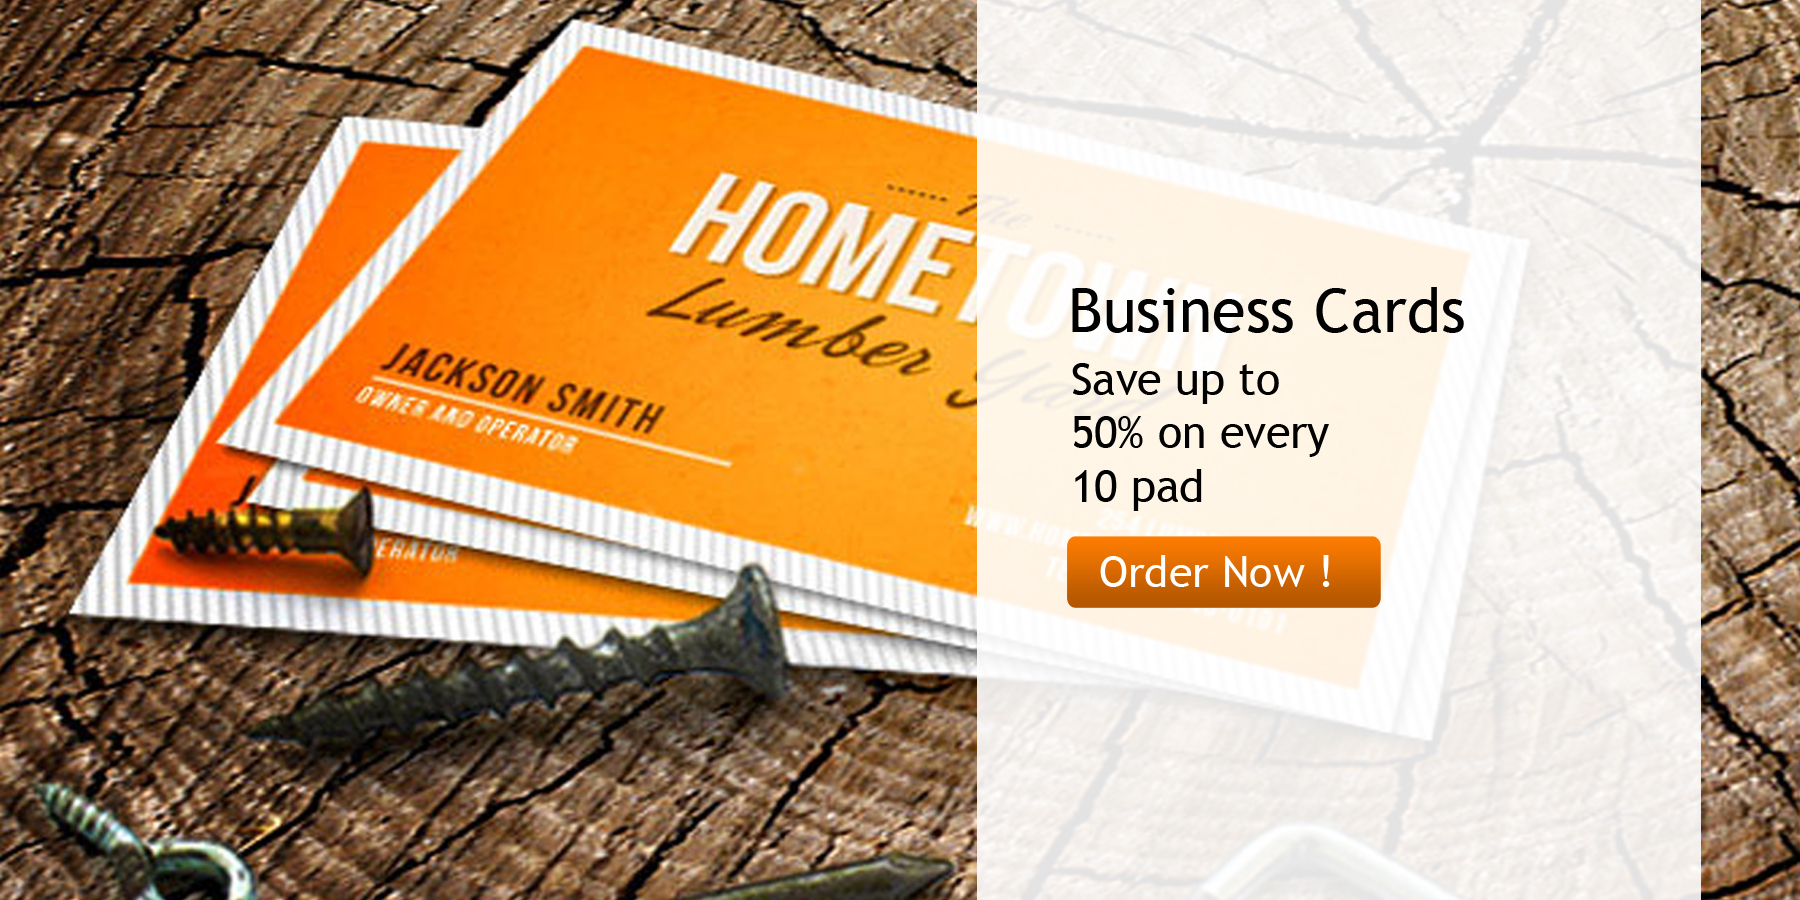
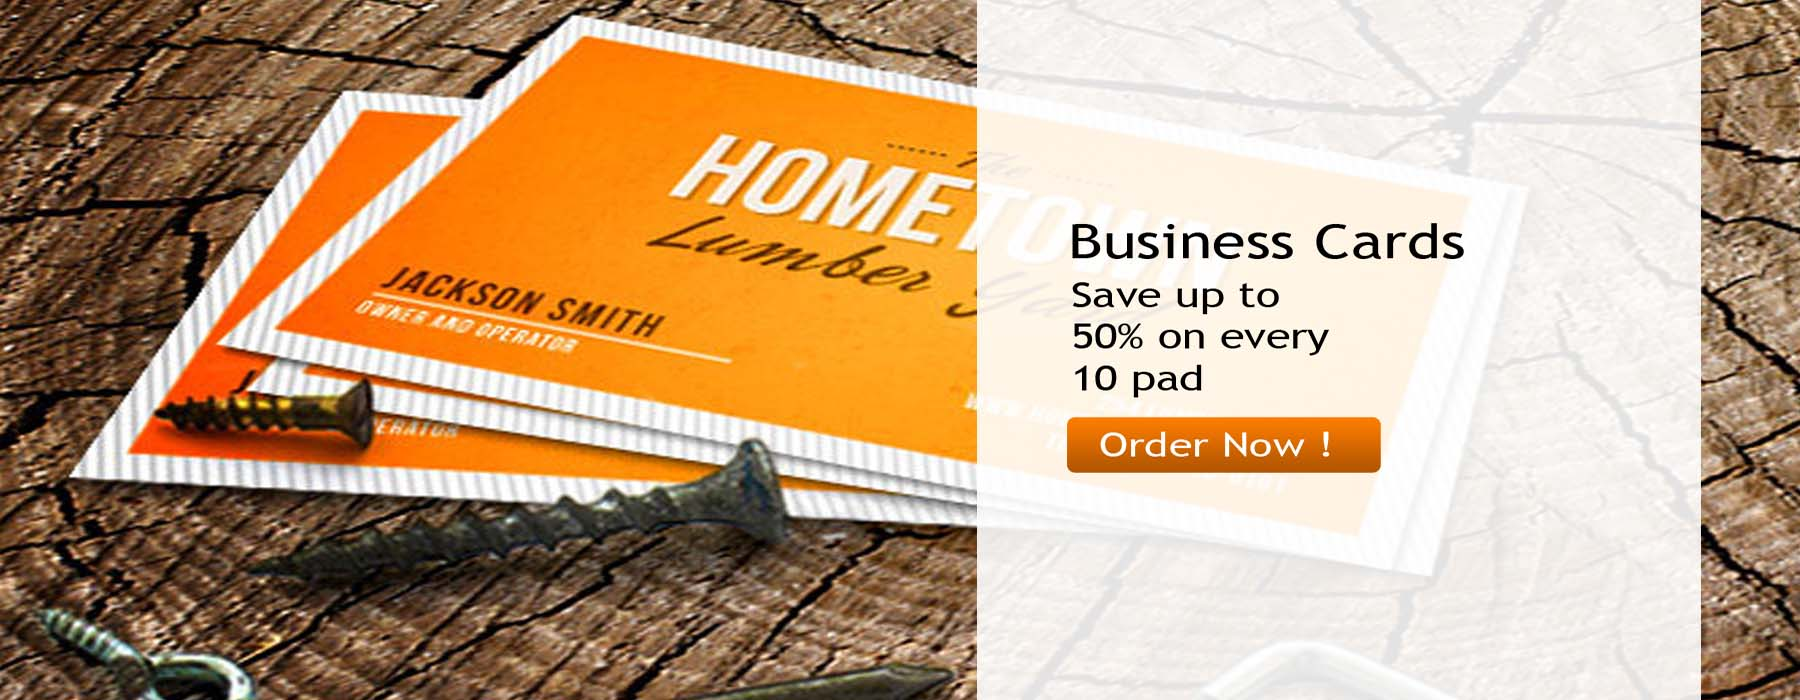
Signed-off-by: Lokesh <yokesh.ganesan@gmail.com>

Changed region(s): [[0.5911, 0.6, 0.7467, 0.66], [0.6533, 0.57, 0.6844, 0.6]]

diff --git a/themes/arya/css/style.css b/themes/arya/css/style.css
@@ -29,7 +29,7 @@ body {
 	margin: 0px !important;
 	width: 100%;
 	height: 130px;
-	background: white;
+	background: black;
 }
 
 .productpage{
@@ -1411,7 +1411,7 @@ footer li {
 		margin: 58px auto 192px;
 	}
 	.nav-collapse_ .nav>li>a {
-		padding: 34px 30px 32px 30px;
+		padding: 18% 20%;
 	background:white;
 	}
 	.div-search {
@@ -1944,8 +1944,8 @@ margin-right: 75px;
 	top: 0px;
 	left: 0px;
 	z-index: 101;
-	width:100%;
-	height:100%;
+
+	
 }
 
 .price {
@@ -1961,7 +1961,7 @@ background-color:rgb(250, 140, 21);
 }
 
 .ws_images img{
-	height:85%;
+	height:76%;
 }
 
 .head li:first-child{
@@ -2007,9 +2007,8 @@ box-shadow: 5px 5px 10px 0px #888;
 
   background-color: black;  /* Replace with your own image */
 }
-
-.ws_images>div{
-	min-height: 570px;
+#splash .menu{
+	margin-top: -20px !important;
 }
 
 

diff --git a/themes/arya/css/style2.css b/themes/arya/css/style2.css
@@ -33,7 +33,7 @@
 	top:0;
 	width:100%;
 	height:100%;
-	overflow:hidden;
+
 }
 #wowslider-container1 .ws_images a{
 	width:100%;

diff --git a/protected/modules/front/views/site/index.php b/protected/modules/front/views/site/index.php
@@ -9,9 +9,17 @@
 	<div id="homepage" class="row-fluid">
 		<div class="logo span3">
 			<a href="#"><img
-				src="<?php echo Yii::app()->theme->baseUrl;?>/images/header.png"> </a>
+				src="<?php echo Yii::app()->theme->baseUrl;?>/images/logo.png"
+				width=100%> </a>
 
 
+
+
+
+		</div>
+		<div class="top span12">
+
+			<div class="login offset6"></div>
 
 
 		</div>
@@ -27,7 +35,7 @@
 				<ul>
 					<li><a
 						href="<?php echo  Yii::app()->createAbsoluteUrl('/front/site/list/')?>"><img
-							src="<?php echo Yii::app()->theme->baseUrl;?>/images/bus.jpg"
+							src="<?php echo Yii::app()->theme->baseUrl;?>/images/bc.jpg"
 							alt="Fallen tree: jQuery Image Slider HTML" id="wows0" /> </a></li>
 					<li><a
 						href="<?php echo  Yii::app()->createAbsoluteUrl('/front/site/letter/')?>"><img
@@ -61,5 +69,3 @@
 		src="<?php echo Yii::app()->theme->baseUrl;?>/js/wowslider.js"></script>
 	<script type="text/javascript"
 		src="<?php echo Yii::app()->theme->baseUrl;?>/js/script.js"></script>
-		
-		

diff --git a/protected/views/default/main.php b/protected/views/default/main.php
@@ -24,7 +24,9 @@
 <link rel="stylesheet"
 	href="<?php echo Yii::app()->theme->baseUrl;?>/css/bootstrap.css"
 	type="text/css" media="screen">
-	<link href="<?php echo Yii::app()->theme->baseUrl;?>/css/bootstrap.min.css" rel="stylesheet" media="screen">
+<link
+	href="<?php echo Yii::app()->theme->baseUrl;?>/css/bootstrap.min.css"
+	rel="stylesheet" media="screen">
 <link rel="stylesheet"
 	href="<?php echo Yii::app()->theme->baseUrl;?>/css/responsive.css"
 	type="text/css" media="screen">

diff --git a/protected/config/local.php b/protected/config/local.php
@@ -114,7 +114,7 @@ array('user/userResource/create', 'pattern'=>'user', 'verb'=>'POST'),*/
 						'connectionString' => 'mysql:host=localhost;dbname=arya',
 						'emulatePrepare' => true,
 						'username' => 'root',
-						'password' => '',
+						'password' => 'password',
 						'charset' => 'utf8',
 						'enableProfiling'=>'true',
 						'enableParamLogging' => true,
